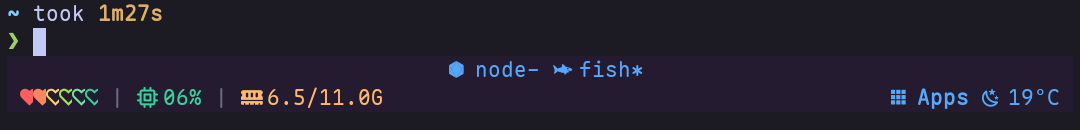
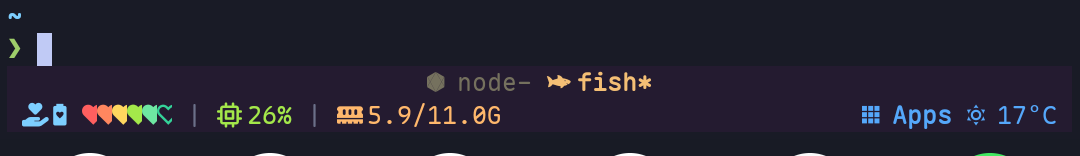
Differentiate inactive tmux windows and refresh statusbar screenshot

diff --git a/README.md b/README.md
@@ -80,6 +80,8 @@ set -g @tooie-tmux-color-prefix-fg '#241b30'
 set -g @tooie-tmux-color-base-bg '#241b30'
 set -g @tooie-tmux-color-base-fg '#55a8fb'
 set -g @tooie-tmux-color-kew '#36f9f6'
+set -g @tooie-tmux-color-window-inactive '#75715e'
+set -g @tooie-tmux-color-window-active '#f4bf75'
 
 # Widget colors/icons
 set -g @tooie-tmux-color-separator '#6b7089'
